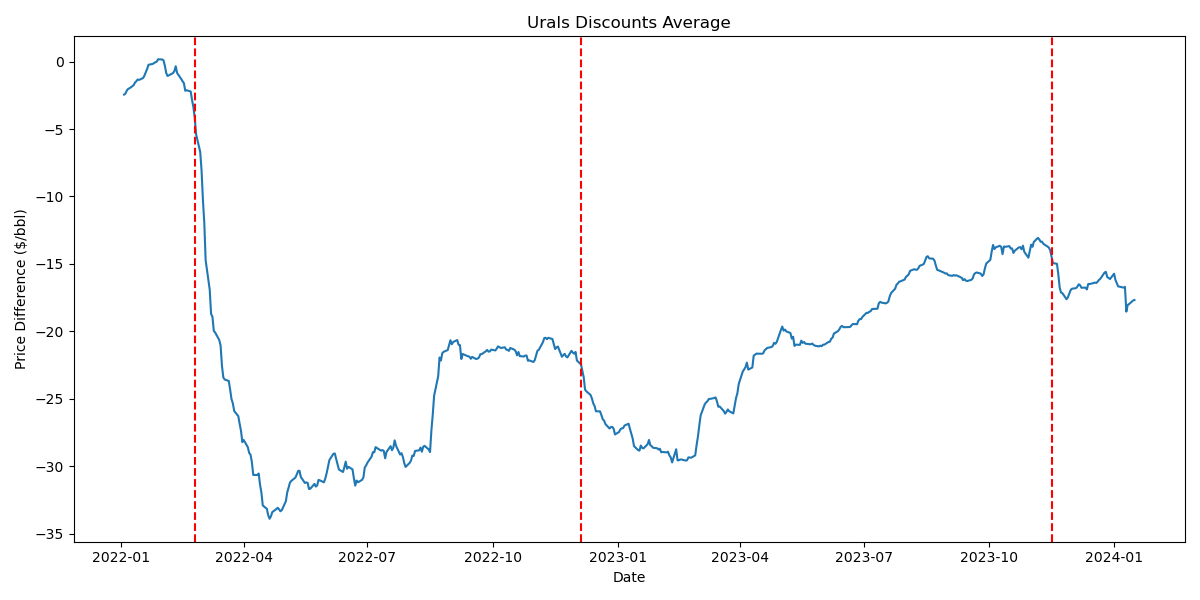
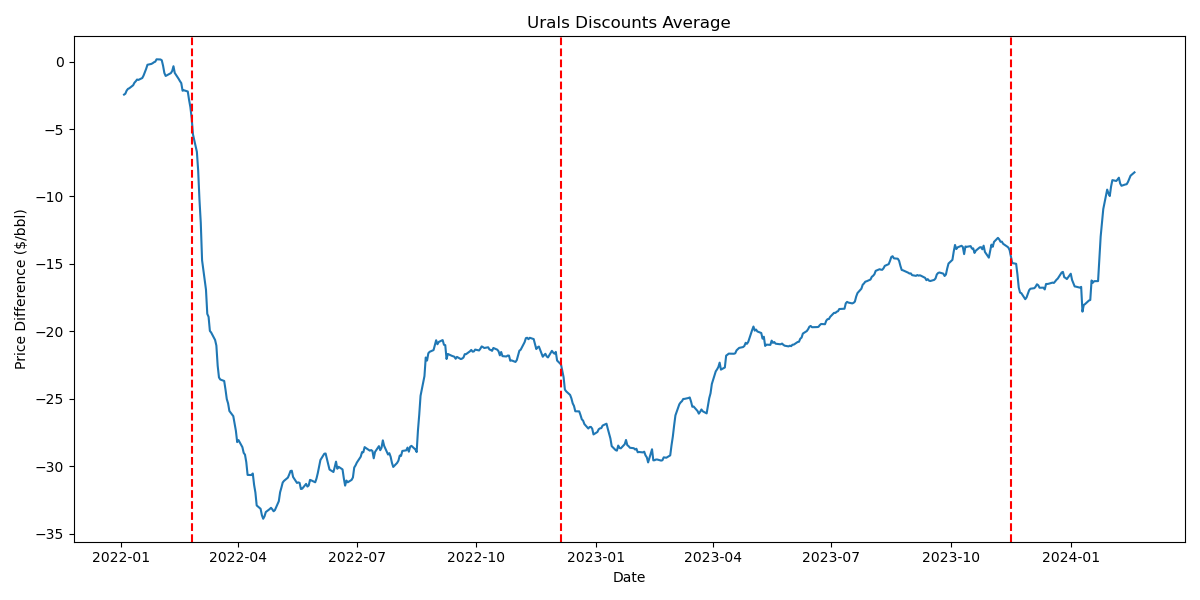
extended investing_com data

diff --git a/final_products/figure_4/series.py b/final_products/figure_4/series.py
@@ -101,4 +101,4 @@ def plotSeriesExtended(investing_total, statista_total, bloomberg_total, treasur
 if __name__ == "__main__":
   plotSeries(matching, statista_data, investing_com_data, bloomberg_data, treasury_data, datastream_data)
   ## MAKE TRUE INSTEAD OF FALSE IN ORDER TO DO NO TREASURY
-  plotSeriesExtended(investing_total, statista_total, bloomberg_total, treasury_total, datastream_total, False)
+  plotSeriesExtended(investing_total, statista_total, bloomberg_total, treasury_total, datastream_total, True)

diff --git a/final_products/figure_4/setup.py b/final_products/figure_4/setup.py
@@ -2,7 +2,7 @@ import data_functions as data
 import pandas as pd
 
 start = '2022-01-01'
-end = '2024-01-17'
+end = '2024-02-20'
 link = f'http://api.scraperlink.com/investpy/?email=tangla@mit.edu&type=historical_data&product=commodities&from_date={start}&to_date={end}&time_frame=Daily&name=brent'
 
 investing_urals = '../../excel_csv/figure_4/crudeoil.csv'
